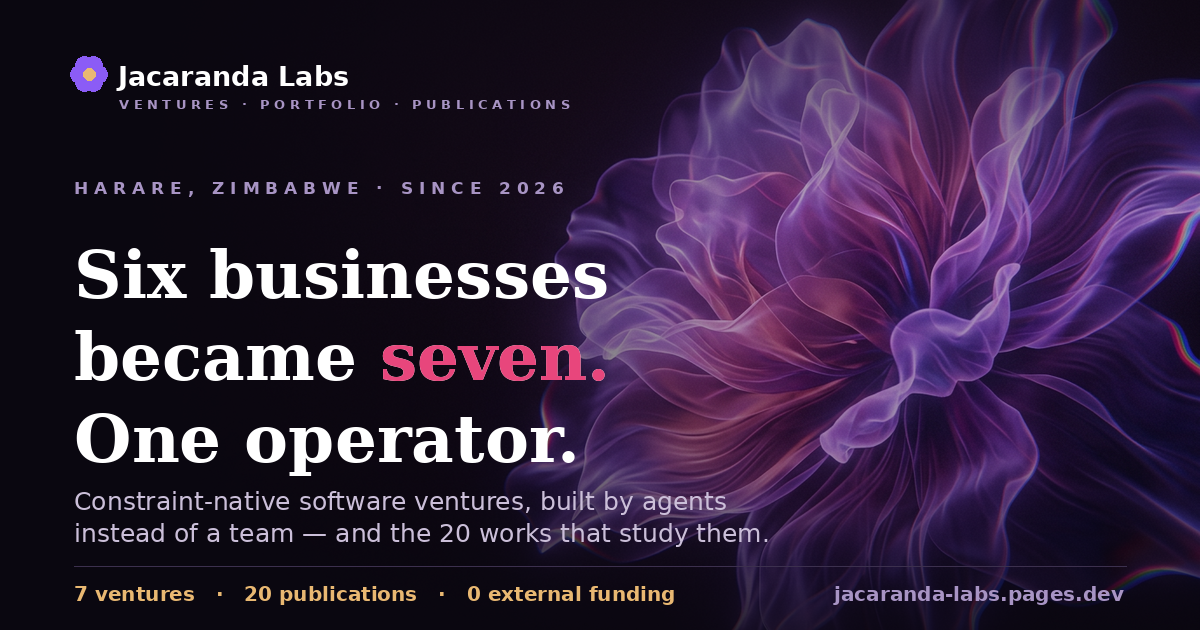
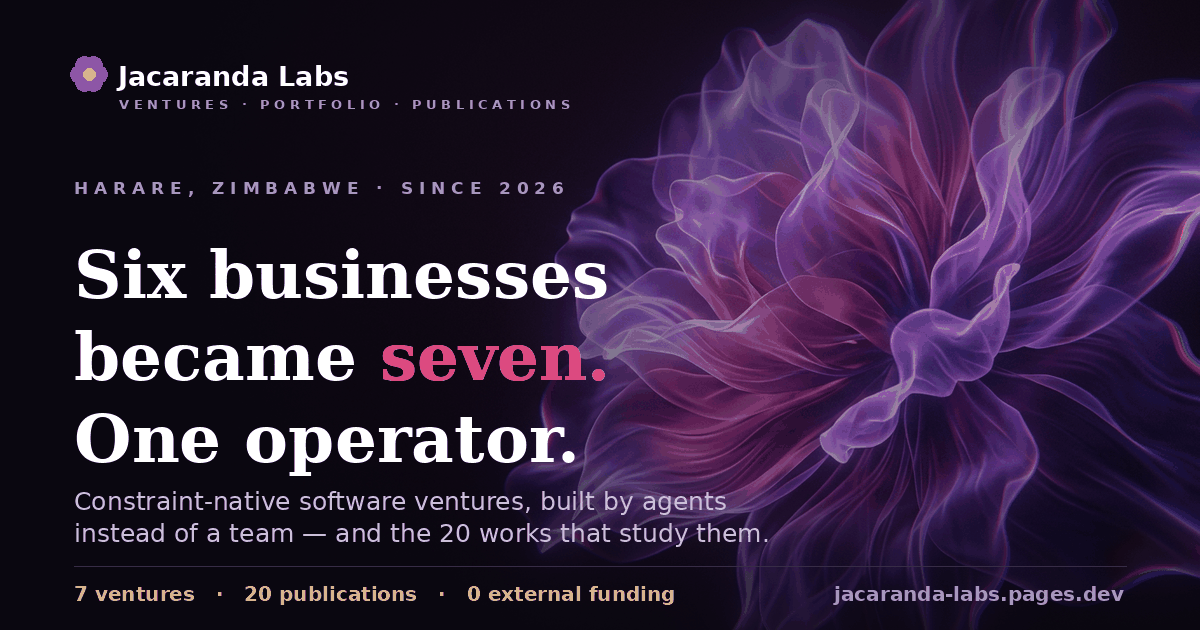
og: regenerate the share card from the hero artwork (260 KB, 160-colour)

diff --git a/tools/serve.py b/tools/serve.py
@@ -1,0 +1,23 @@
+"""Tiny preview server for dist/ — clean URLs, correct media types, no cache."""
+import http.server, socketserver, sys, os
+from functools import partial
+
+class H(http.server.SimpleHTTPRequestHandler):
+    def translate_path(self, path):
+        p = super().translate_path(path)
+        if not os.path.splitext(p)[1] and os.path.isdir(p):
+            idx = os.path.join(p, "index.html")
+            if os.path.isfile(idx):
+                return idx
+        return p
+    def end_headers(self):
+        self.send_header("Cache-Control", "no-store")
+        super().end_headers()
+    def log_message(self, *a):
+        pass
+
+port = int(sys.argv[1]) if len(sys.argv) > 1 else 8080
+handler = partial(H, directory="dist")
+with socketserver.ThreadingTCPServer(("0.0.0.0", port), handler) as httpd:
+    print(f"serving dist/ on http://0.0.0.0:{port}", flush=True)
+    httpd.serve_forever()

diff --git a/tools/make_og.py b/tools/make_og.py
@@ -85,7 +85,10 @@ def main():
            font=f_foot, fill=(233, 184, 114))
     d.text((x + 760, 582), "jacaranda-labs.pages.dev", font=f_foot, fill=(168, 148, 196))
 
-    out.convert("RGB").save("assets/og.png", optimize=True)
+    card = out.convert("RGB")
+    # 8-bit palette keeps the card under ~200 KB without visible banding at this size
+    card.quantize(colors=160, method=Image.MEDIANCUT, dither=Image.FLOYDSTEINBERG).save(
+        "assets/og.png", optimize=True)
     print("assets/og.png", out.size)
 
 
